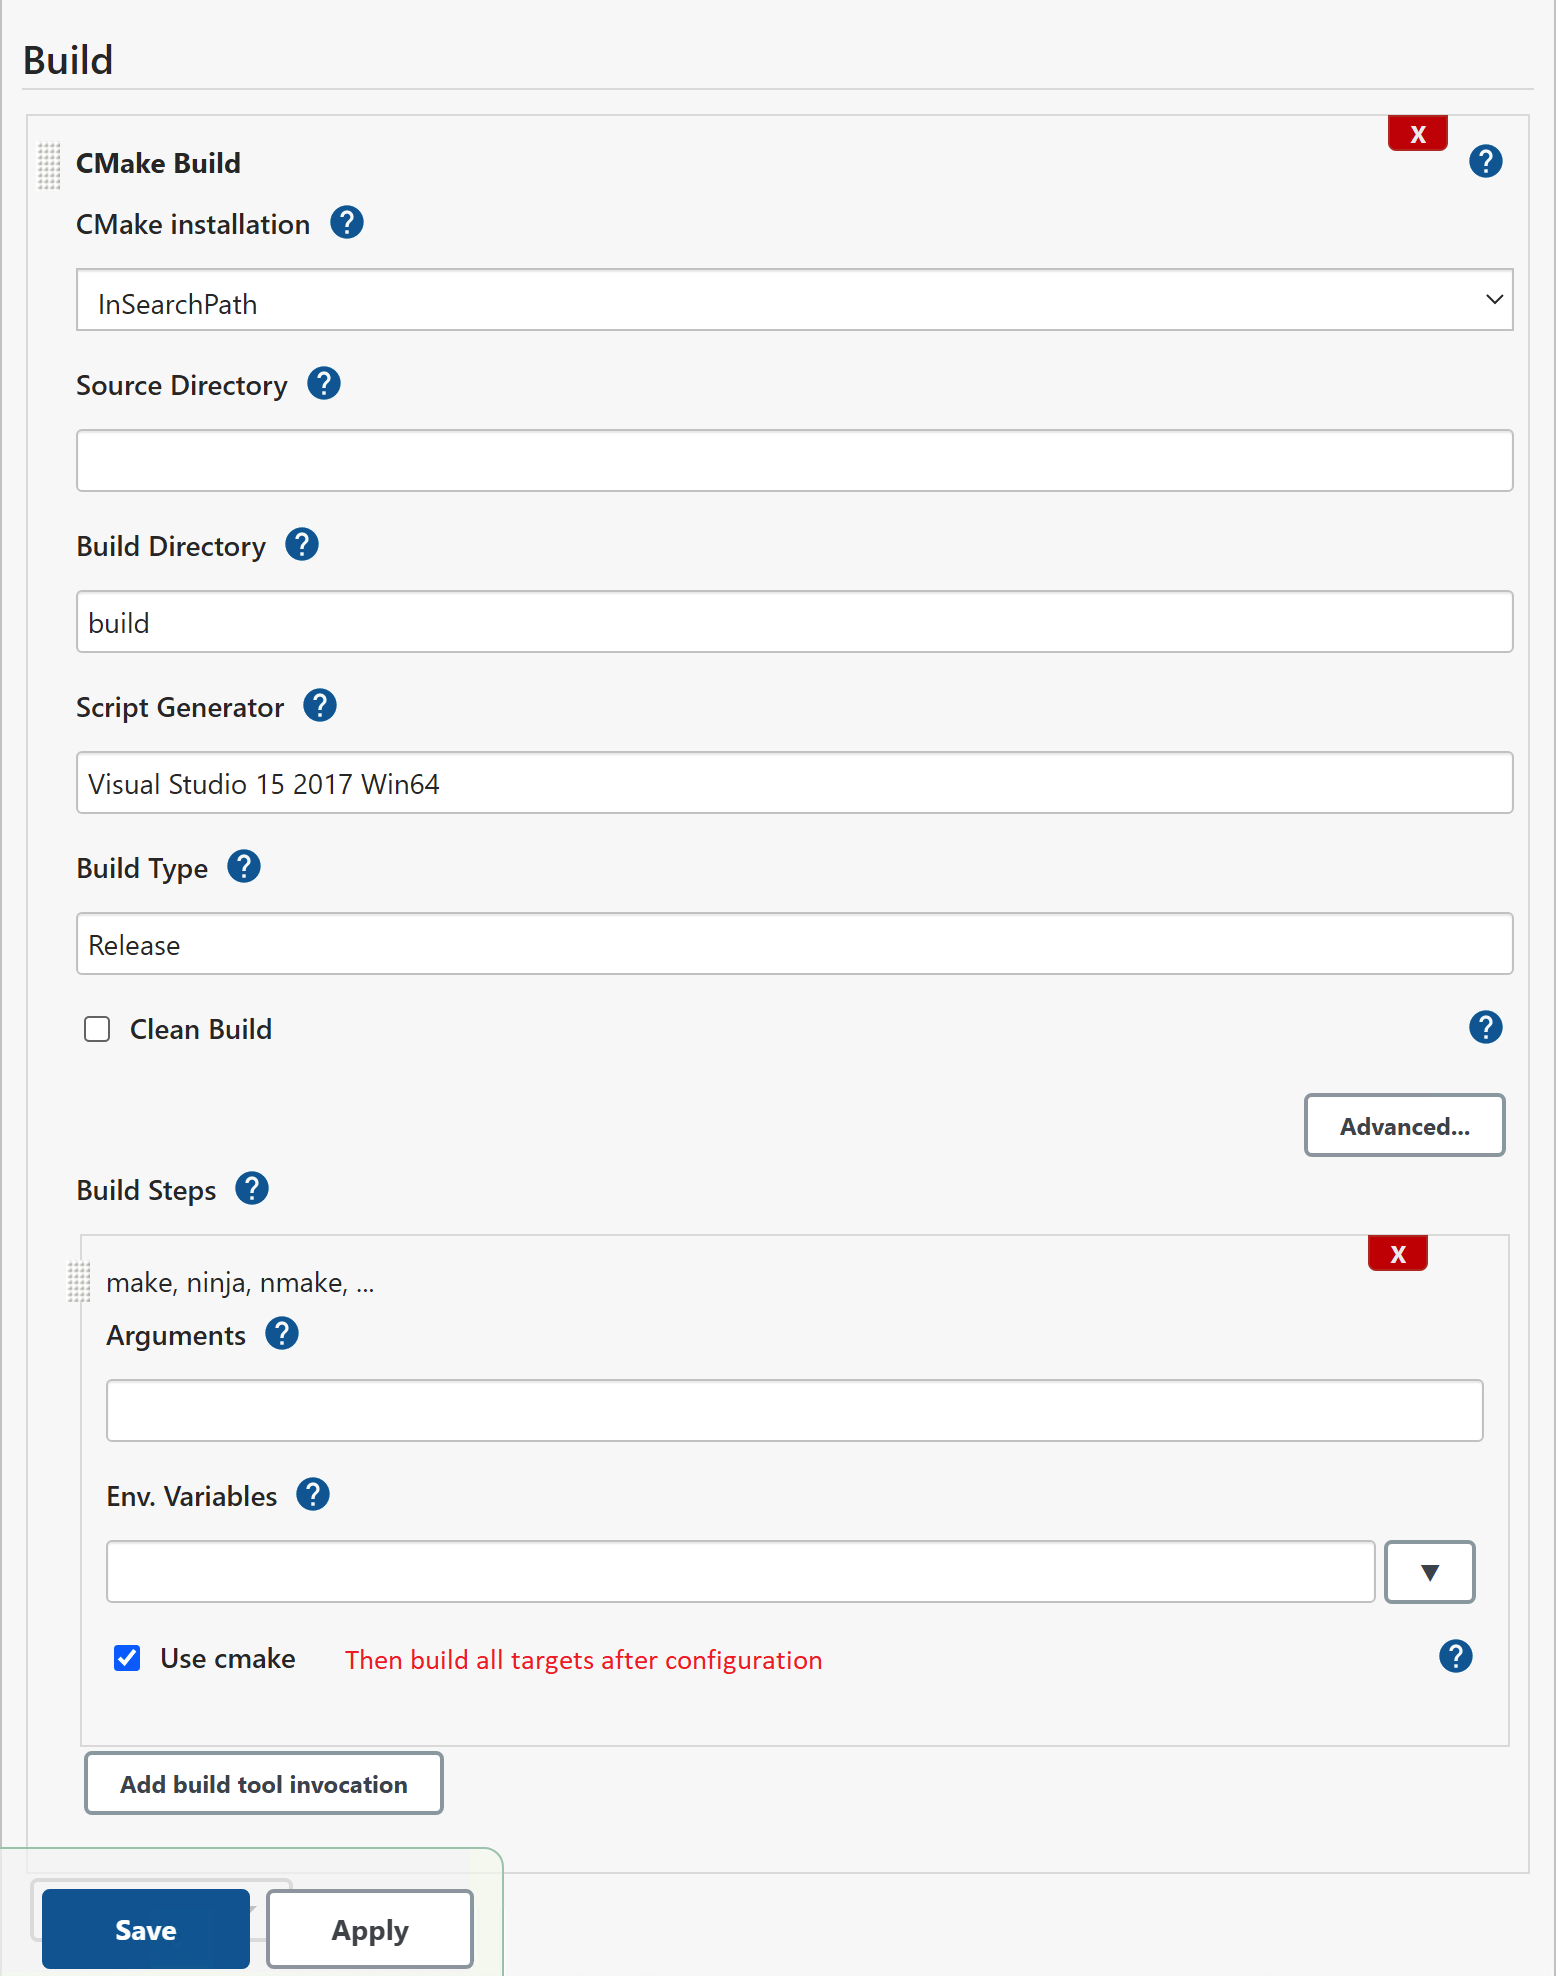
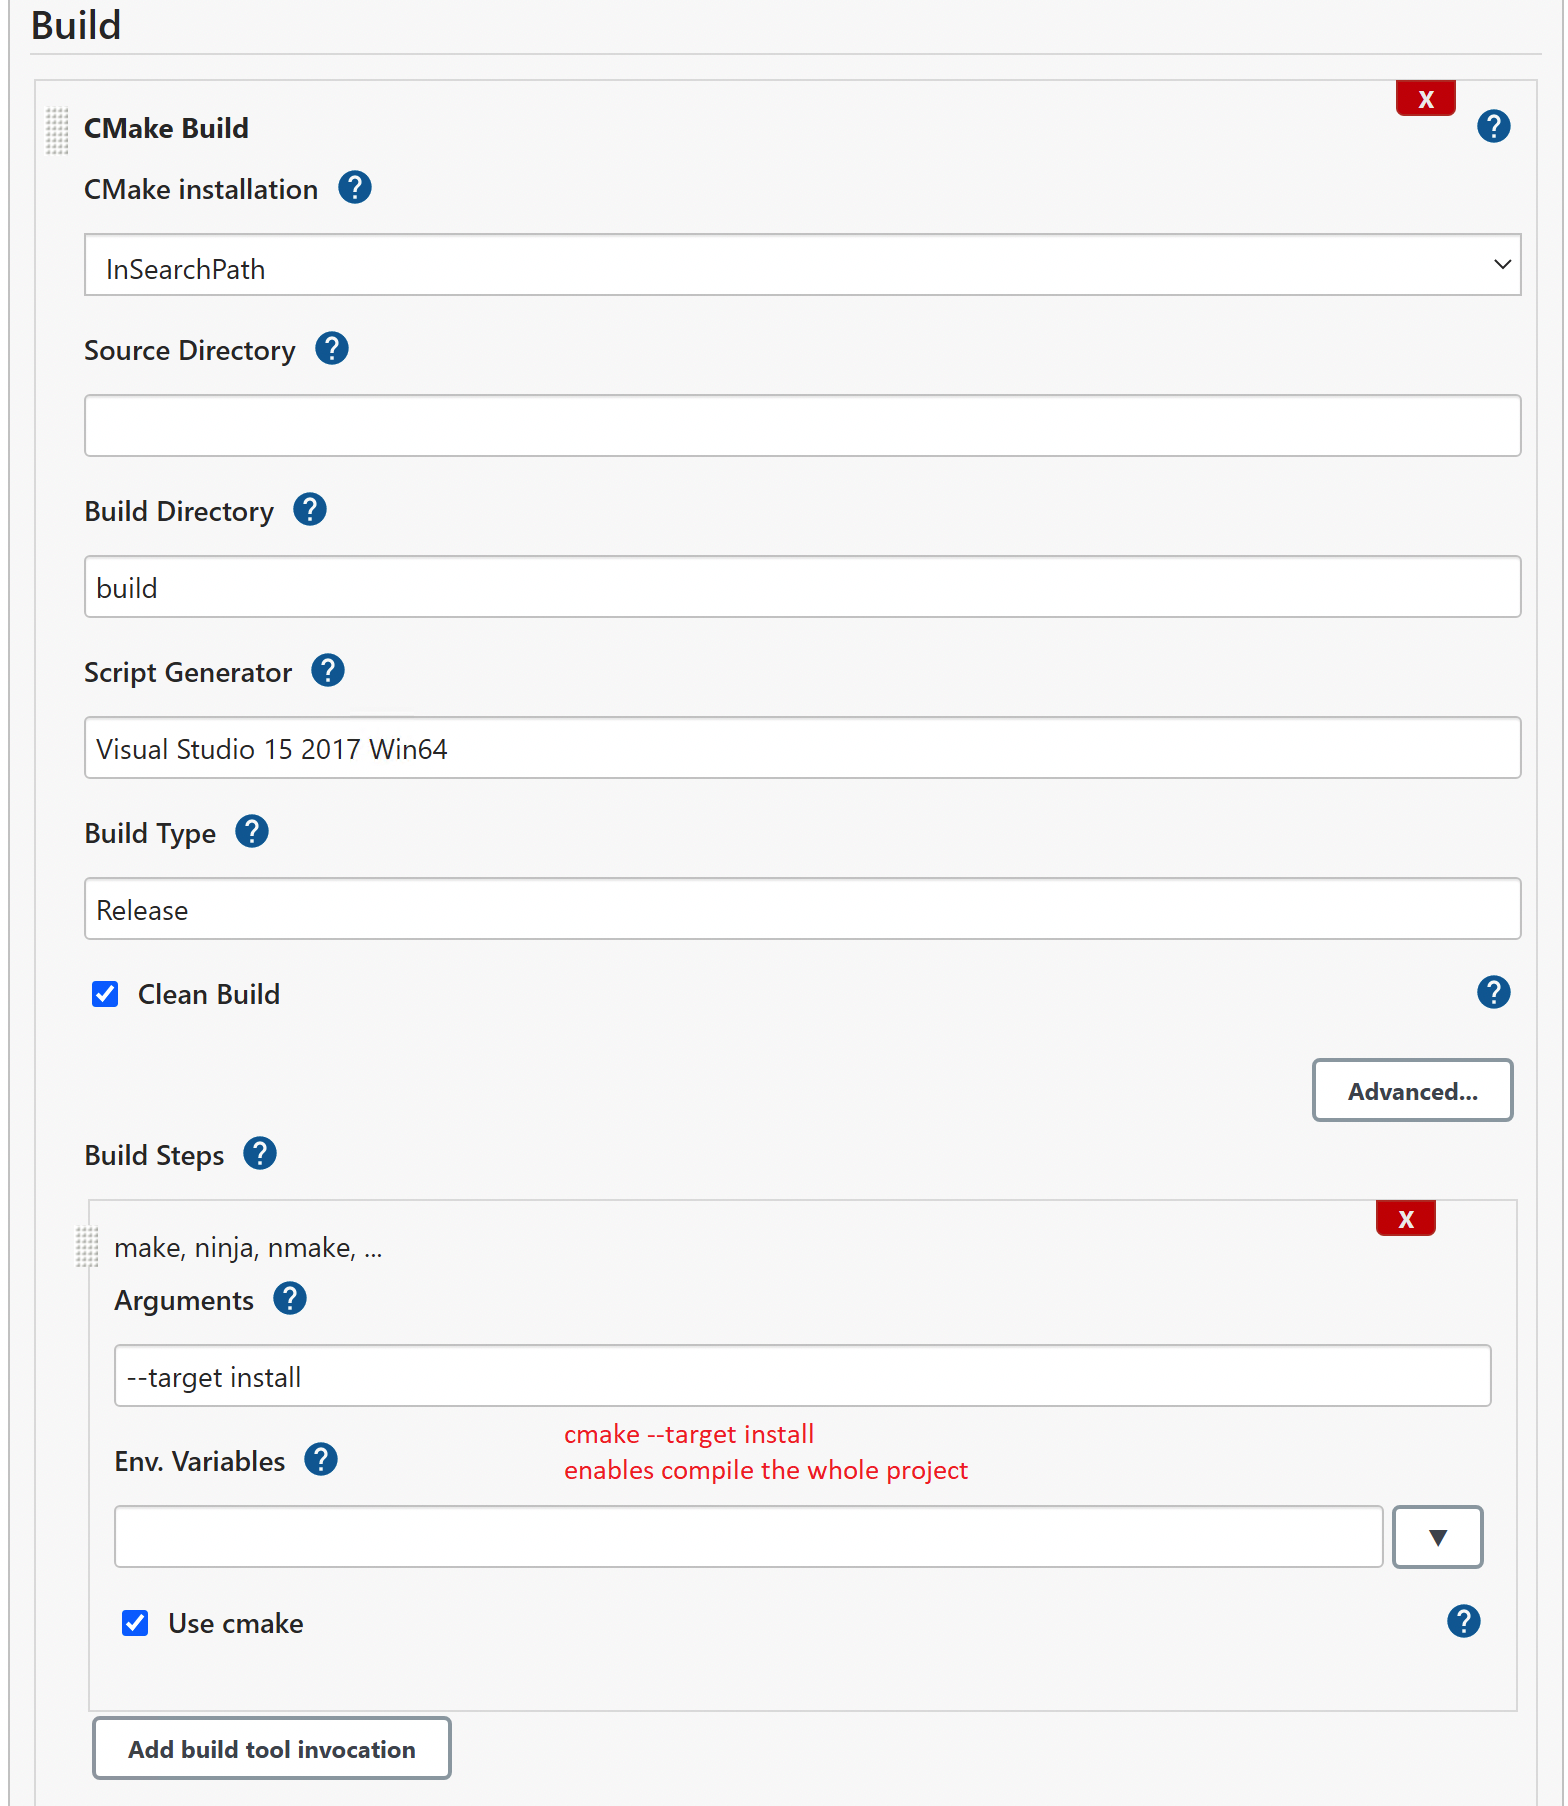
setup Freestyle project: Jenkins with CMake plugin

diff --git a/Readme.md b/Readme.md
@@ -63,6 +63,8 @@ Build Directory: build
 Script Generator: Visual Studio 15 2017 Win64   #Compiler on agent
 Build Type: Release
 
+It's a good idea to set the `Clean Build` flag to make the job always start with a clean state. 
+
 * Check 'Console output' for any issue
 
 > Error: Cannot run program "cmake" ... CreateProcess error=2, The system cannot find the file specified
@@ -84,16 +86,25 @@ You also specify the target here, which is typically "install" or "package" via 
 ![configure and build](doc/figures/jenkins-cmake.build.png)
 
 * Add another step that runs the tests via CTest. 
-Add another Build Step, this time "CMake/CPack/CTest Execution" and pick CTest. 
+Add another Build Step, this time "CMake/CPack/CTest Execution" and pick CTest.
+
+Working Directory: build 
+Otherwise, ctest runs under $JENKINS_HOME$/workspace/cmake-demo, then will get `No test configuration file found!`. 
+if using windowns, Arguments: --no-compress-output -T Test || verify > NUL
+if using Unix, Arguments: --no-compress-output -T Test || /usr/bin/true
+
+Running `ctest` with the option `-T Test` will make CTest generate an XML output file in a sub-folder `Testing` inside the `build` folder, which can be picked up by the `xUnit` plug-in in a post-build action then. 
+
 The one quirk with this is that it will let the build fail 
 when CTest returns a non-zero exit code - which it does when any tests fail. 
 Usually, you want the build to become unstable and not failed if that happens. 
 Hence set "1-65535" in the "Ignore exit codes" input.
 ![test](doc/figures/jenkins-cmake.test.png)
-> No test configuration file found!
 
-Remove the 'build' directory, make a new empty 'build' directory and run CMake again
+Finally the `xUnit` plugin must be configured as:
+Add a `Publish xUnit test result report` post-build action and then use the plugin's `Add` button to create a `CTest-Version` test result report. In the `CTest-Version (default) Pattern` enter the file pattern `build/Testing/**/Test.xml`. 
 
+![Post-test](doc/figures/jenkins-cmake.post-test.png)
 
 # Troubleshoot
 > git@github.com: Permission denied (publickey).
